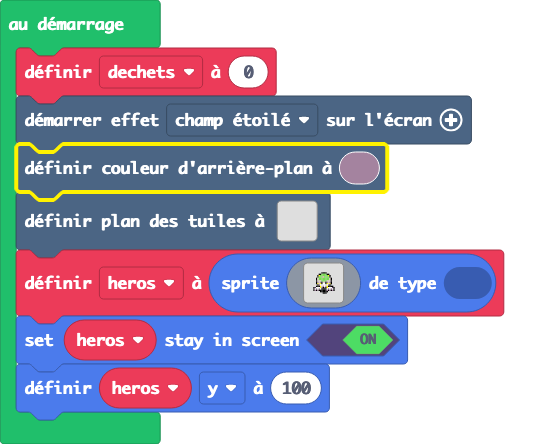
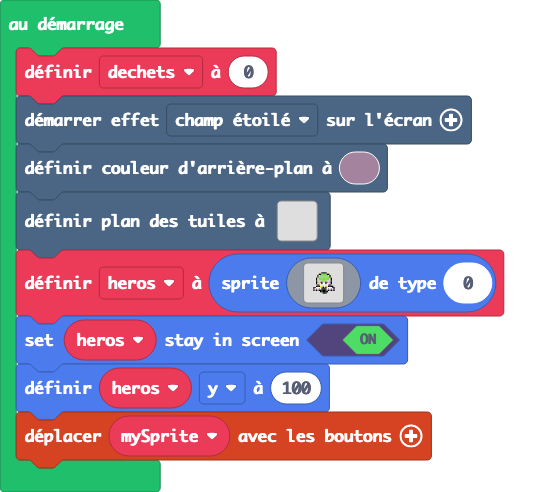
Mise à jour main.blocks, main.ts, main.py, tilemap.g.jres, tilemap.g.ts

diff --git a/tilemap.g.ts b/tilemap.g.ts
@@ -43,6 +43,25 @@ namespace myTiles {
 . . . . . . . . . . . . . . . . 
 . . . . . . . . . . . . . . . . 
 `, [myTiles.transparency16], TileScale.Sixteen);
+            case "niveau3":
+            case "niveau3":return tiles.createTilemap(hex`1000100000000000000000000000000000000000000000000000000000000000000000000000000000000000000000000000000000000000000000000000000000000000000000000000000000000000000000000000000000000000000000000000000000000000000000000000000000000000000000000000000000000000000000000000000000000000000000000000000000000000000000000000000000000000000000000000000000000000000000000000000000000000000000000000000000000000000000000000000000000000000000000000000000000000000000000000000000000000000000000000000000000000000000000000000000000000`, img`
+. . . . . . . . . . . . . . . . 
+. . . . . . . . . . . . . . . . 
+. . . . . . . . . . . . . . . . 
+. . . . . . . . . . . . . . . . 
+. . . . . . . . . . . . . . . . 
+. . . . . . . . . . . . . . . . 
+. . . . . . . . . . . . . . . . 
+. . . . . . . . . . . . . . . . 
+. . . . . . . . . . . . . . . . 
+. . . . . . . . . . . . . . . . 
+. . . . . . . . . . . . . . . . 
+. . . . . . . . . . . . . . . . 
+. . . . . . . . . . . . . . . . 
+. . . . . . . . . . . . . . . . 
+. . . . . . . . . . . . . . . . 
+. . . . . . . . . . . . . . . . 
+`, [myTiles.transparency16], TileScale.Sixteen);
         }
         return null;
     })

diff --git a/main.ts b/main.ts
@@ -1,3 +1,4 @@
+let mySprite: Sprite = null
 let dechets = 0
 effects.starField.startScreenEffect()
 scene.setBackgroundColor(11)
@@ -30,3 +31,4 @@ let heros = sprites.create(img`
     `, 0)
 heros.setStayInScreen(true)
 heros.y = 100
+controller.moveSprite(mySprite)

diff --git a/main.py b/main.py
@@ -1,10 +1,10 @@
 dechets = 0
 effects.star_field.start_screen_effect()
-scene.set_background_color(10)
+scene.set_background_color(11)
 tiles.set_tilemap(tilemap("""
     niveau1
 """))
-my_sprite = sprites.create(img("""
+heros = sprites.create(img("""
         ........................
             ........................
             ........................
@@ -31,3 +31,6 @@ my_sprite = sprites.create(img("""
             ........................
     """),
     0)
+heros.set_stay_in_screen(True)
+heros.y = 100
+
